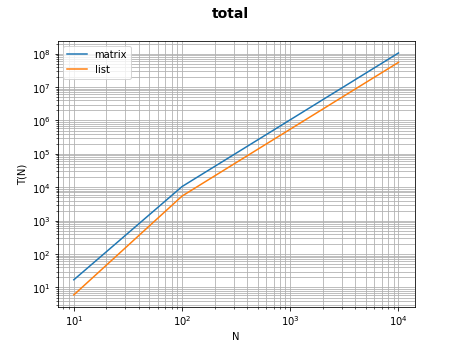
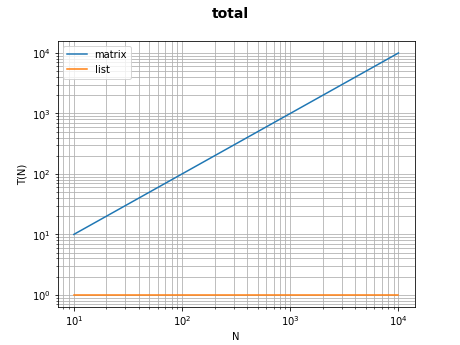
dd

Changed region(s): [[0.0609, 0.1449, 0.913, 0.8986], [0.0609, 0.1449, 0.1522, 0.2029]]

diff --git a/src/helper/GraphGenerator.java b/src/helper/GraphGenerator.java
@@ -21,26 +21,32 @@ public class GraphGenerator {
      * @return Matrixdarstellung des Graphen
      */
     public static int[][] genNonDirectionMatrix(int Size){
+      int nEdges = 2;
+      int edgeCount = 0;
+      int doneIndex =0;
       int[][] tempMatrix = new int[Size][Size];
       Random random = new Random();
       int tmp;
       for(int   i=0; i < Size ;i++){
         for(int j=i; j < Size ;j++){
-          if (i == j ) {
-        	  tempMatrix[i][j] = 0;
-          }
-          else {
-        	  tmp=random.nextInt(100);//also 50% der f�lle keine Kante?
-        	  if (tmp%2 == 0){
         		  tempMatrix[i][j] = -1;
         		  tempMatrix[j][i] = -1;
-        	  } else {
-        		  tempMatrix[i][j] = tmp;
-        		  tempMatrix[j][i] = tmp;
-        	  }
           }
         } 
+      for(int i=1; i < Size- nEdges  ; i++){
+    	  edgeCount=0;
+    	  for(int j=i; j < Size ;j++){
+    		  tmp = random.nextInt(100);
+        	  if (tmp < 2 && edgeCount == nEdges){
+              edgeCount++;
+    		  tempMatrix[i][j] = random.nextInt(10)+1;
+    		  tempMatrix[j][i] = tempMatrix[i][j];
+        	  }
+    	  }
       }
+      
+      for (int i =0 ; i < Size ; i++)
+    	  tempMatrix[i][i] = 0;
       return tempMatrix;
     }
     
